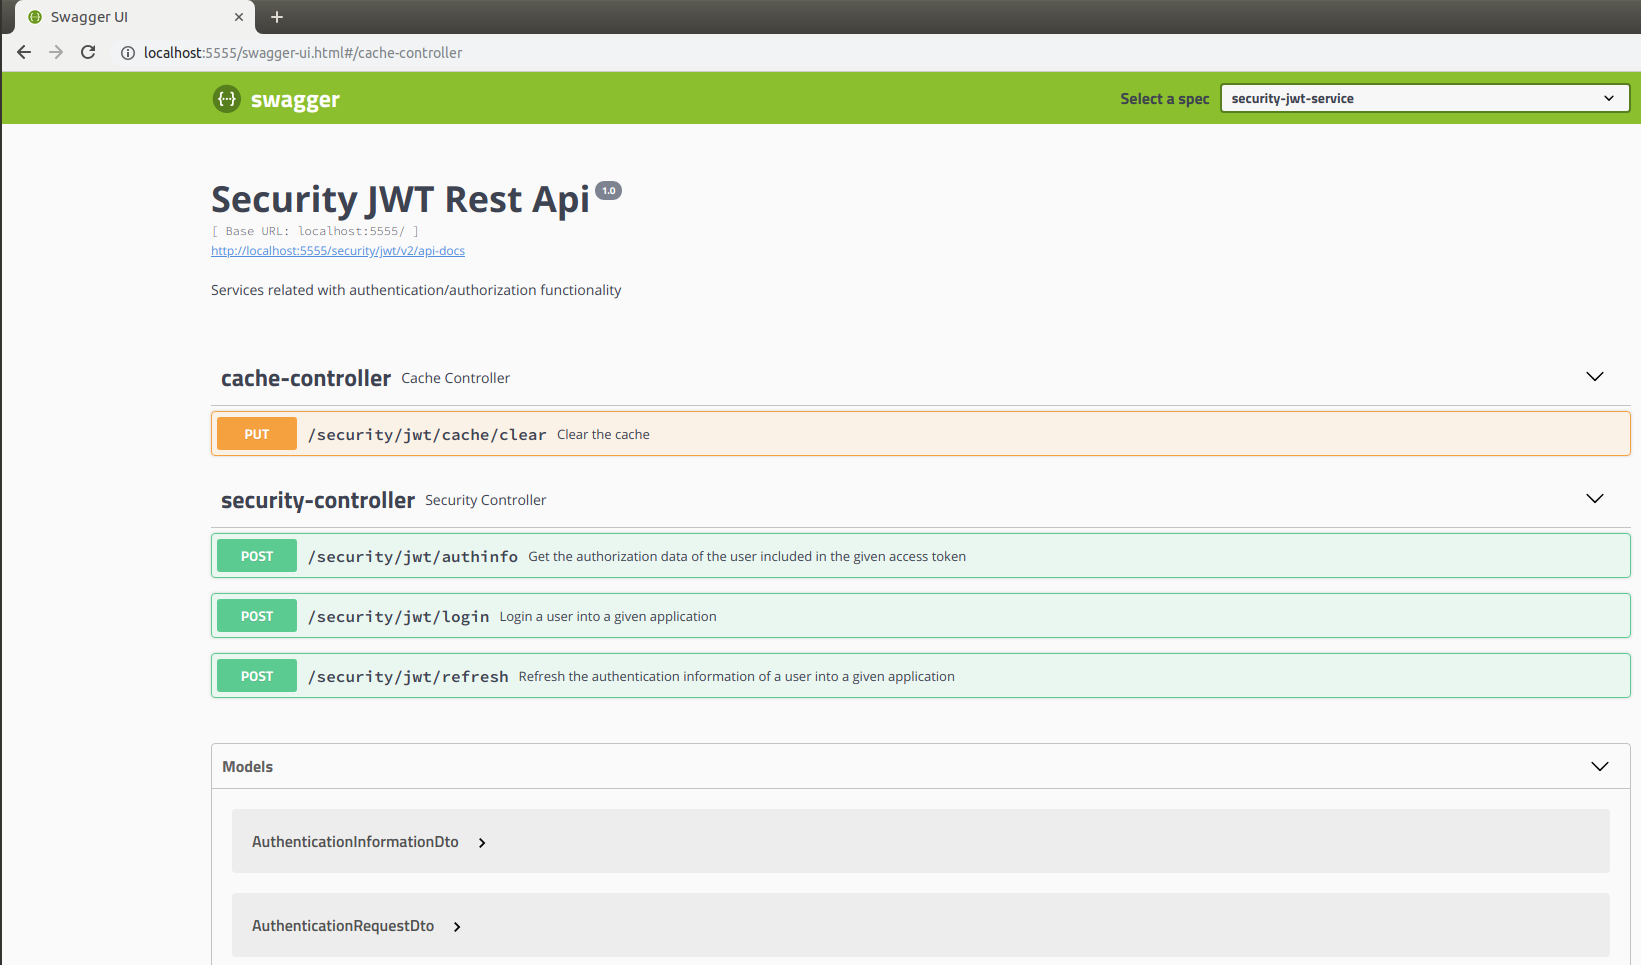
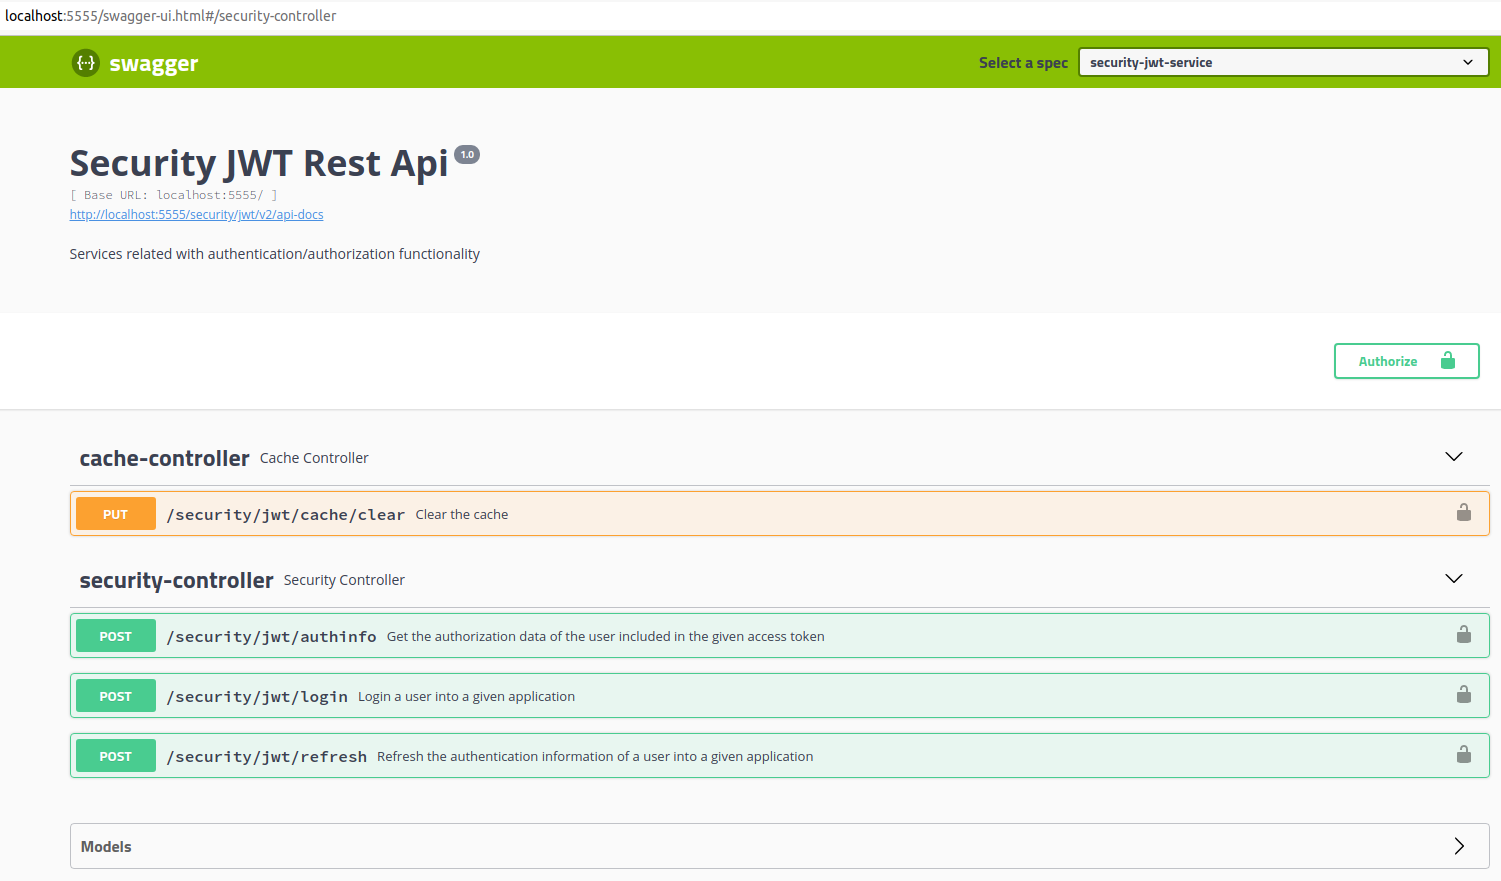
Added Basic Authorization to Swagger in security-jwt-service

diff --git a/security-jwt-service/src/main/java/com/security/jwt/configuration/documentation/DocumentationConfiguration.java b/security-jwt-service/src/main/java/com/security/jwt/configuration/documentation/DocumentationConfiguration.java
@@ -7,11 +7,18 @@ import org.springframework.context.annotation.Configuration;
 import springfox.documentation.builders.PathSelectors;
 import springfox.documentation.builders.RequestHandlerSelectors;
 import springfox.documentation.service.ApiInfo;
+import springfox.documentation.service.AuthorizationScope;
+import springfox.documentation.service.BasicAuth;
+import springfox.documentation.service.SecurityReference;
+import springfox.documentation.service.SecurityScheme;
 import springfox.documentation.spi.DocumentationType;
+import springfox.documentation.spi.service.contexts.SecurityContext;
 import springfox.documentation.spring.web.plugins.Docket;
 import springfox.documentation.swagger2.annotations.EnableSwagger2;
 
 import java.util.ArrayList;
+
+import static java.util.Arrays.asList;
 
 /**
  * Used to configure the Swagger documentation of the current microservice
@@ -19,6 +26,8 @@ import java.util.ArrayList;
 @Configuration
 @EnableSwagger2
 public class DocumentationConfiguration {
+
+    private final String BASIC_AUTHORIZATION_API_KEY = "basicAuth";
 
     @Value("${springfox.documentation.apiVersion}")
     private String apiVersion;
@@ -38,7 +47,9 @@ public class DocumentationConfiguration {
                 .apis(RequestHandlerSelectors.basePackage(Constants.PATH.CONTROLLER))
                 .paths(PathSelectors.any())
                 .build()
-                .apiInfo(apiInfo());
+                .apiInfo(apiInfo())
+                .securitySchemes(asList(securityScheme()))
+                .securityContexts(asList(securityContext()));
     }
 
 
@@ -51,6 +62,20 @@ public class DocumentationConfiguration {
         return new ApiInfo(title, description, apiVersion,
                 null, null, null, null,
                 new ArrayList<>());
+    }
+
+    private SecurityScheme securityScheme() {
+        return new BasicAuth(BASIC_AUTHORIZATION_API_KEY);
+    }
+
+    private SecurityContext securityContext() {
+        return SecurityContext.builder()
+                .securityReferences(asList(securityReference()))
+                .build();
+    }
+
+    private SecurityReference securityReference() {
+        return new SecurityReference(BASIC_AUTHORIZATION_API_KEY, new AuthorizationScope[0]);
     }
 
 }
